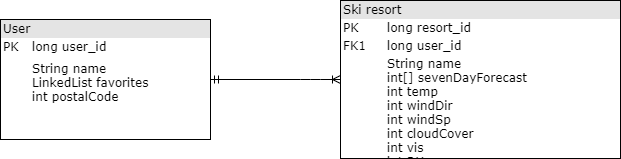
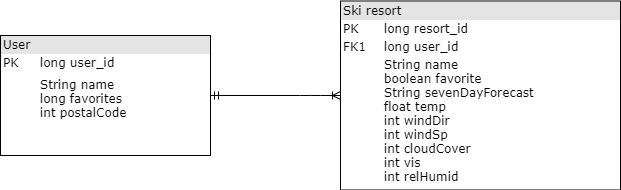
Fixed Nonnull issue

diff --git a/app/src/main/java/com/queuedye/skiamerica/model/service/SkiAmericaDatabase.java b/app/src/main/java/com/queuedye/skiamerica/model/service/SkiAmericaDatabase.java
@@ -4,19 +4,15 @@ import android.app.Application;
 import androidx.room.Database;
 import androidx.room.Room;
 import androidx.room.RoomDatabase;
-import androidx.room.TypeConverter;
-import androidx.room.TypeConverters;
 import com.queuedye.skiamerica.model.dao.SkiResortDao;
 import com.queuedye.skiamerica.model.dao.UserDao;
 import com.queuedye.skiamerica.model.entity.SkiResort;
 import com.queuedye.skiamerica.model.entity.User;
-import java.util.Date;
 
 @Database(
     entities = {SkiResort.class, User.class},
     version = 1, exportSchema = true
 )
-//@TypeConverters(SkiAmericaDatabase.Converters.class)
 public abstract class SkiAmericaDatabase extends RoomDatabase {
 
   protected SkiAmericaDatabase() {
@@ -35,10 +31,6 @@ public abstract class SkiAmericaDatabase extends RoomDatabase {
   public abstract SkiResortDao getSkiResortDao();
 
   public abstract UserDao getUserDao();
-//
-//    public abstract RoundDao getRoundDao();
-//
-//    public abstract HandDao getHandDao();
 
   private static class InstanceHolder {
 
@@ -51,8 +43,5 @@ public abstract class SkiAmericaDatabase extends RoomDatabase {
     }
 
   }
-
-//  public static class Converters {
-//  }
 
 }

diff --git a/app/src/main/java/com/queuedye/skiamerica/model/entity/SkiResort.java b/app/src/main/java/com/queuedye/skiamerica/model/entity/SkiResort.java
@@ -1,5 +1,6 @@
 package com.queuedye.skiamerica.model.entity;
 
+import androidx.annotation.NonNull;
 import androidx.room.ColumnInfo;
 import androidx.room.Entity;
 import androidx.room.ForeignKey;
@@ -20,6 +21,9 @@ public class SkiResort {
   @PrimaryKey(autoGenerate = true)
   @ColumnInfo(name = "ski_resort_id")
   private long id;
+
+  @ColumnInfo(name = "user_id", index = true)
+  private long userId;
 
   @ColumnInfo(name = "ski_resort_name", index = true)
   private String name;
@@ -128,5 +132,13 @@ public class SkiResort {
 
   public void setRelHumid(int relHumid) {
     this.relHumid = relHumid;
+  }
+
+  public long getUserId() {
+    return userId;
+  }
+
+  public void setUserId(long userId) {
+    this.userId = userId;
   }
 }

diff --git a/app/src/main/java/com/queuedye/skiamerica/model/dao/SkiResortDao.java b/app/src/main/java/com/queuedye/skiamerica/model/dao/SkiResortDao.java
@@ -16,9 +16,9 @@ public interface SkiResortDao {
 
   @Query("SELECT * FROM SkiResort WHERE ski_resort_id =:skiResortId ORDER BY ski_resort_id ASC")
   SkiResort getById(long skiResortId);
-
-//  @Query("SELECT * FROM User WHERE ski_resort")
-//  List<SkiResort> getByFavorites();
+//
+//  @Query("SELECT * FROM User WHERE ski_resort =:bool")
+//  List<SkiResort> getByFavorites(boolean bool);
 
   @Delete
   int delete(SkiResort... skiResorts);

diff --git a/docs/ddl.md b/docs/ddl.md
@@ -3,17 +3,25 @@
 ```sql 
 CREATE TABLE IF NOT EXISTS `SkiResort`
 (
-    `ski_resort_id`   INTEGER PRIMARY KEY AUTOINCREMENT NOT NULL,
-    `ski_resort_name` TEXT,
-    `temp`            REAL                              NOT NULL,
-    `wind_dir`        INTEGER                           NOT NULL,
-    `wind_spd`        INTEGER                           NOT NULL,
-    `cloud_cover`     INTEGER                           NOT NULL,
-    `vis`             INTEGER                           NOT NULL,
-    `rel_humid`       INTEGER                           NOT NULL
-);
+    `ski_resort_id`      INTEGER PRIMARY KEY AUTOINCREMENT NOT NULL,
+    `user_id`            INTEGER                           NOT NULL,
+    `ski_resort_name`    TEXT,
+    `favorite`           INTEGER                           NOT NULL,
+    `seven_day_forecast` TEXT,
+    `temp`               REAL                              NOT NULL,
+    `wind_dir`           INTEGER                           NOT NULL,
+    `wind_spd`           INTEGER                           NOT NULL,
+    `cloud_cover`        INTEGER                           NOT NULL,
+    `vis`                INTEGER                           NOT NULL,
+    `rel_humid`          INTEGER                           NOT NULL,
+    FOREIGN KEY (`user_id`) REFERENCES `User` (`user_id`) ON UPDATE NO ACTION ON DELETE CASCADE
+)
+
+CREATE INDEX `index_SkiResort_user_id` ON `SkiResort` (`user_id`);
 
 CREATE INDEX `index_SkiResort_ski_resort_name` ON `SkiResort` (`ski_resort_name`);
+
+CREATE INDEX `index_SkiResort_seven_day_forecast` ON `SkiResort` (`seven_day_forecast`);
 
 CREATE INDEX `index_SkiResort_temp` ON `SkiResort` (`temp`);
 

diff --git a/README.md b/README.md
@@ -29,13 +29,13 @@ Skier, Snowboarders, and Resort employees looking for weather information on a p
 
 + [x] Description
 + [x] Intended users
-+ [ ] ERDs
-+ [ ] User stories
++ [x] ERDs
++ [x] User stories
 + [x] Entity classes
-+ [ ] DAOs
-+ [ ] Database Class
++ [x] DAOs
++ [x] Database Class
 + [x] DDL
-+ [ ] Inspect data model with chrome
++ [x] Inspect data model with chrome
 
 ## First Milestone
 
